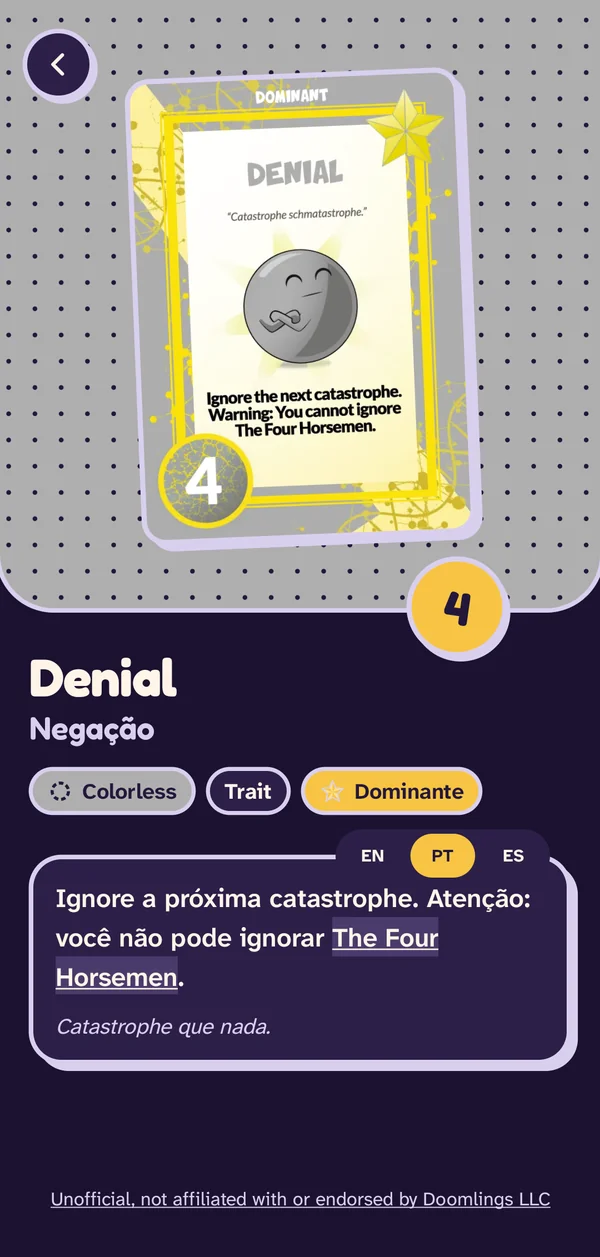
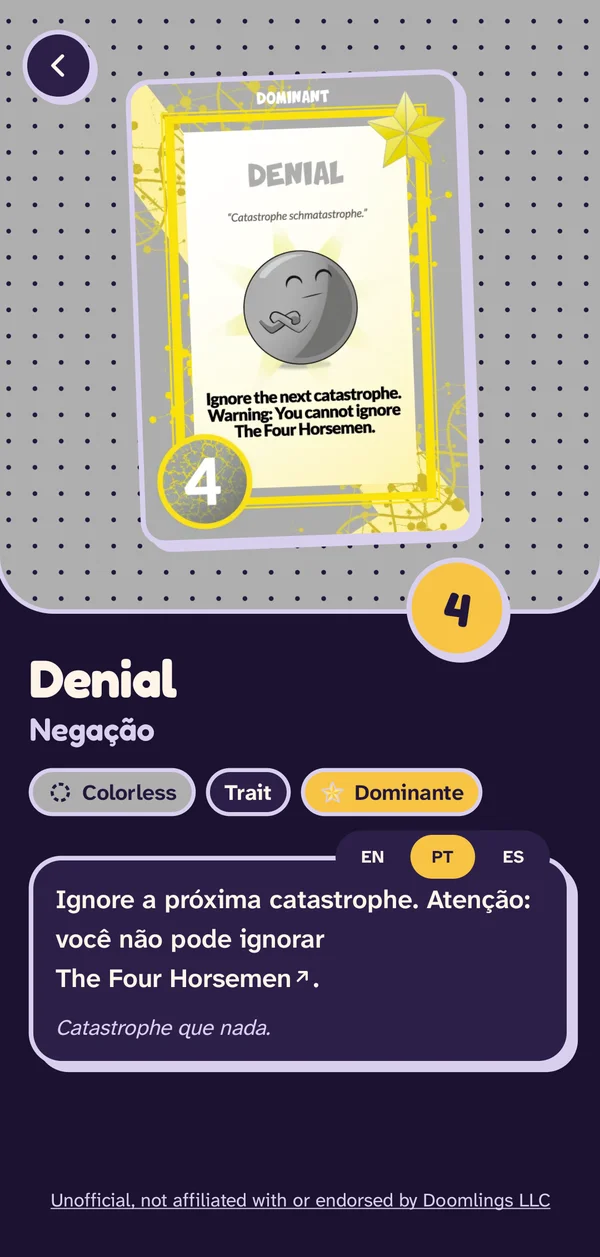
feat: cited card names in their ink with an arrow (#218)

diff --git a/app/src/main/java/dev/nycocado/atlas/carddetail/BlockBubble.kt b/app/src/main/java/dev/nycocado/atlas/carddetail/BlockBubble.kt
@@ -3,6 +3,7 @@ package dev.nycocado.atlas.carddetail
 import androidx.annotation.DrawableRes
 import androidx.annotation.StringRes
 import androidx.compose.animation.AnimatedContent
+import androidx.compose.foundation.Image
 import androidx.compose.foundation.background
 import androidx.compose.foundation.layout.Arrangement
 import androidx.compose.foundation.layout.Box
@@ -27,10 +28,12 @@ import androidx.compose.ui.geometry.Offset
 import androidx.compose.ui.geometry.Size
 import androidx.compose.ui.graphics.Brush
 import androidx.compose.ui.graphics.Color
+import androidx.compose.ui.graphics.ColorFilter
 import androidx.compose.ui.graphics.LinearGradientShader
 import androidx.compose.ui.graphics.Shader
 import androidx.compose.ui.graphics.ShaderBrush
 import androidx.compose.ui.graphics.SolidColor
+import androidx.compose.ui.res.painterResource
 import androidx.compose.ui.text.LinkAnnotation
 import androidx.compose.ui.text.Placeholder
 import androidx.compose.ui.text.PlaceholderVerticalAlign
@@ -39,7 +42,6 @@ import androidx.compose.ui.text.TextLinkStyles
 import androidx.compose.ui.text.buildAnnotatedString
 import androidx.compose.ui.text.font.FontStyle
 import androidx.compose.ui.text.intl.LocaleList
-import androidx.compose.ui.text.style.TextDecoration
 import androidx.compose.ui.text.withStyle
 import androidx.compose.ui.tooling.preview.PreviewLightDark
 import androidx.compose.ui.unit.dp
@@ -286,6 +288,7 @@ private fun EffectText(
     // Kept across recompositions, so an unchanged text stays equal and isn't laid out again.
     val brushes = remember(parts, theme) { parts.map { (it as? TextPart.Words)?.ink?.let(theme::brush) } }
     val gradients = mutableListOf<Pair<IntRange, GradientBrush>>()
+    val arrows = mutableMapOf<String, Color>()
     val text =
         buildAnnotatedString {
             withStyle(SpanStyle(localeList = LocaleList(language.code))) {
@@ -293,26 +296,39 @@ private fun EffectText(
                     when (part) {
                         is TextPart.Words -> {
                             val start = length
-                            append(part.text)
-                            val citations = library.citations(card, part.text)
+                            val cited = mutableListOf<IntRange>()
+                            var at = 0
+                            for ((range, citedCard) in library.citations(card, part.text)) {
+                                append(part.text.substring(at, range.first))
+                                val from = length
+                                // No-break spaces keep the name on one line, in the displayed text only.
+                                append(part.text.substring(range).replace(' ', '\u00A0'))
+                                // A word joiner keeps the arrow beside the name: an invisible format character, with
+                                // nothing for TalkBack to say. It must be text of its own, as a line can still break
+                                // before an inline content whose alternate text is the joiner.
+                                append('\u2060')
+                                appendInlineContent(ARROW + citedCard.id, "\u2060")
+                                val nameAndArrow = from until length
+                                cited += nameAndArrow
+                                val ink = citedInk(citedCard, theme)
+                                arrows[ARROW + citedCard.id] = ink
+                                addLink(
+                                    LinkAnnotation.Clickable(
+                                        citedCard.id,
+                                        TextLinkStyles(SpanStyle(color = ink)),
+                                    ) { onCardClick(citedCard.id) },
+                                    nameAndArrow.first,
+                                    nameAndArrow.last + 1,
+                                )
+                                at = range.last + 1
+                            }
+                            append(part.text.substring(at))
                             brushes[i]?.let { brush ->
                                 val span = start until length
                                 val style = SpanStyle(brush = brush)
                                 if (brush is GradientBrush) gradients += span to brush
                                 // A cited name keeps its citation style, which an ink drawn over it would hide.
-                                val cited = citations.map { (range, _) -> start + range.first..start + range.last }
                                 span.without(cited).forEach { addStyle(style, it.first, it.last + 1) }
-                            }
-                            for ((range, cited) in citations) {
-                                val link =
-                                    TextLinkStyles(
-                                        citedStyle(cited, theme).copy(textDecoration = TextDecoration.Underline),
-                                    )
-                                addLink(
-                                    LinkAnnotation.Clickable(cited.id, link) { onCardClick(cited.id) },
-                                    start + range.first,
-                                    start + range.last + 1,
-                                )
                             }
                         }
 
@@ -335,7 +351,17 @@ private fun EffectText(
                     token.code to
                         InlineTextContent(token.placeholder) { Symbol(symbol, Modifier.fillMaxSize(), actionColor) }
                 }
-            }.toMap()
+            }.toMap() +
+            arrows.mapValues { (_, color) ->
+                InlineTextContent(Placeholder(0.8.em, 0.8.em, PlaceholderVerticalAlign.Center)) {
+                    Image(
+                        painterResource(R.drawable.ic_arrow_outward),
+                        null,
+                        Modifier.fillMaxSize(),
+                        colorFilter = ColorFilter.tint(color),
+                    )
+                }
+            }
     BasicText(
         text,
         style = (if (note) AtlasTypography.bodyMd else AtlasTypography.bodyLg).copy(color = theme.onSurface),
@@ -348,6 +374,9 @@ private fun EffectText(
         inlineContent = inline,
     )
 }
+
+// Its own inline content ids, apart from the tokens' codes.
+private const val ARROW = "arrow:"
 
 // The colors an ink is drawn with, the rainbow's in the order of the card.
 internal fun AtlasColors.inkColors(ink: Ink): List<Color> =
@@ -391,16 +420,12 @@ private fun IntRange.without(holes: List<IntRange>): List<IntRange> =
         if (at <= last) add(at..last)
     }
 
-// A cited trait's name in its first color, like a highlighter. Trait colors only mean a card's color, so an age or a
-// catastrophe gets the dots of its own top panel instead.
-private fun citedStyle(
+// A cited trait's name in the ink of its first color. Trait colors only mean a card's color, so an age or a catastrophe
+// keeps the text's own color, and only its arrow says it opens a card.
+private fun citedInk(
     cited: NamedCard,
     theme: AtlasColors,
-): SpanStyle =
-    (cited as? Trait)
-        ?.let { theme.trait(it.colors.firstOrNull()) }
-        ?.let { SpanStyle(background = it.fill, color = it.onFill) }
-        ?: SpanStyle(background = theme.outlineSoft, color = theme.onSurface)
+): Color = (cited as? Trait)?.let { theme.trait(it.colors.firstOrNull()).ink } ?: theme.onSurface
 
 // Anxiety Elixir as in assets/doomlings/imaginary-ends/cards.json. The app doesn't show Trinkets yet, so its blocks are
 // the ones shared decides for it, written out.

diff --git a/app/src/test/java/dev/nycocado/atlas/CitedInkTest.kt b/app/src/test/java/dev/nycocado/atlas/CitedInkTest.kt
@@ -1,10 +1,20 @@
 package dev.nycocado.atlas
 
 import androidx.activity.compose.setContent
+import androidx.compose.foundation.layout.Box
+import androidx.compose.foundation.layout.width
+import androidx.compose.runtime.getValue
+import androidx.compose.runtime.mutableStateOf
+import androidx.compose.runtime.setValue
+import androidx.compose.ui.Modifier
+import androidx.compose.ui.graphics.Color
+import androidx.compose.ui.semantics.SemanticsActions
 import androidx.compose.ui.semantics.SemanticsProperties
 import androidx.compose.ui.semantics.getOrNull
 import androidx.compose.ui.test.hasText
 import androidx.compose.ui.text.AnnotatedString
+import androidx.compose.ui.text.TextLayoutResult
+import androidx.compose.ui.unit.dp
 import dagger.hilt.android.testing.HiltAndroidTest
 import dev.nycocado.atlas.card.CardColor
 import dev.nycocado.atlas.card.CardLanguage
@@ -16,12 +26,13 @@ import dev.nycocado.atlas.card.face
 import dev.nycocado.atlas.carddetail.BlockBubble
 import dev.nycocado.atlas.ui.theme.AtlasTheme
 import dev.nycocado.atlas.ui.theme.DayColors
+import org.junit.Assert.assertEquals
 import org.junit.Assert.assertFalse
 import org.junit.Assert.assertTrue
 import org.junit.Test
 
-// No card prints a cited name inside an inked span yet, so a made-up trait cites the real Heat Vision in one, drawn in
-// place of the app's screen, in the Day theme Robolectric starts in.
+// No card prints a cited name inside an inked span yet, so a made-up trait cites the real Heat Vision, a red trait, in a
+// blue one, drawn in place of the app's screen, in the Day theme Robolectric starts in.
 @HiltAndroidTest
 class CitedInkTest : AtlasBehaviorTest() {
     private val inkedCitation =
@@ -31,10 +42,10 @@ class CitedInkTest : AtlasBehaviorTest() {
             "",
             "Inked Citation",
             null,
-            listOf(Effect(text = "Discard [red]Heat Vision and every red trait[/red].")),
+            listOf(Effect(text = "Discard [blue]Heat Vision and every blue trait[/blue].")),
             null,
             0,
-            listOf(CardColor.Red),
+            listOf(CardColor.Blue),
             false,
             emptyList(),
             listOf(TraitIcon.DropOfLife),
@@ -49,13 +60,49 @@ class CitedInkTest : AtlasBehaviorTest() {
         )
 
     // A solid ink's brush becomes the span's color.
-    private fun AnnotatedString.redOver(words: String) =
-        text.indexOf(words).let { start ->
-            spanStyles.any {
-                it.start < start + words.length && it.end > start &&
-                    it.item.color == DayColors.traitRed.ink
+    private fun AnnotatedString.inkOver(
+        words: String,
+        ink: Color,
+    ) = text.indexOf(words).let { start ->
+        spanStyles.any { it.start < start + words.length && it.end > start && it.item.color == ink }
+    }
+
+    // Across every bubble width some line ends between Heat and Vision, or before the arrow, unless the name is kept whole.
+    // Below 150dp the name and its arrow don't fit on one line at all.
+    @Test
+    fun aCitedNameWithASpaceIsNeverSplitAcrossLines() {
+        var width by mutableStateOf(150.dp)
+        launchPastNotice().onActivity {
+            it.setContent {
+                AtlasTheme {
+                    Box(Modifier.width(width)) {
+                        BlockBubble(
+                            inkedCitation.face()!!.blocks.single(),
+                            CardLanguage.English,
+                            inkedCitation,
+                            null,
+                            library,
+                        )
+                    }
+                }
             }
         }
+        val effect = compose.onNode(hasText("and every blue trait", substring = true))
+
+        for (step in 0..40) {
+            width = (150 + step * 5).dp
+            compose.waitForIdle()
+            val layouts = mutableListOf<TextLayoutResult>()
+            effect.fetchSemanticsNode().config[SemanticsActions.GetTextLayoutResult].action!!(layouts)
+            val layout = layouts.single()
+            val heat = layout.layoutInput.text.indexOf("Heat")
+            val vision = layout.layoutInput.text.indexOf("Vision")
+            // After the word joiner.
+            val arrow = vision + "Vision".length + 1
+            assertEquals("at $width", layout.getLineForOffset(heat), layout.getLineForOffset(vision))
+            assertEquals("at $width", layout.getLineForOffset(heat), layout.getLineForOffset(arrow))
+        }
+    }
 
     @Test
     fun aCitedNameInsideAnInkKeepsItsCitationStyle() {
@@ -75,15 +122,19 @@ class CitedInkTest : AtlasBehaviorTest() {
 
         val text =
             compose
-                .onNode(hasText("Heat Vision and every red trait", substring = true))
+                .onNode(hasText("and every blue trait", substring = true))
                 .fetchSemanticsNode()
                 .config
                 .getOrNull(SemanticsProperties.Text)!!
                 .single()
-        val cited = text.text.indexOf("Heat Vision")
+        val cited = text.text.indexOf(HEAT_VISION)
 
-        assertTrue(text.getLinkAnnotations(cited, cited + "Heat Vision".length).isNotEmpty())
-        assertFalse(text.redOver("Heat Vision"))
-        assertTrue(text.redOver("and every red trait"))
+        assertTrue(text.getLinkAnnotations(cited, cited + HEAT_VISION.length).isNotEmpty())
+        assertTrue(text.inkOver(HEAT_VISION, DayColors.traitRed.ink))
+        assertFalse(text.inkOver(HEAT_VISION, DayColors.traitBlue.ink))
+        assertTrue(text.inkOver("and every blue trait", DayColors.traitBlue.ink))
     }
 }
+
+// A cited name is displayed with a no-break space, so the name stays on one line.
+private const val HEAT_VISION = "Heat\u00A0Vision"

diff --git a/app/src/test/java/dev/nycocado/atlas/CitedCardTest.kt b/app/src/test/java/dev/nycocado/atlas/CitedCardTest.kt
@@ -45,12 +45,14 @@ class CitedCardTest : AtlasBehaviorTest() {
                     SemanticsMatcher.keyIsDefined(SemanticsProperties.LinkTestMarker),
                 ).fetchSemanticsNode()
 
-        // TalkBack reads the effect around the link, and announces the name in it as a link.
+        // TalkBack reads the effect around the link, and announces the name in it as a link. It doesn't read the word
+        // joiner that keeps the arrow beside the name.
         val effect =
             link.parent!!
                 .config[SemanticsProperties.Text]
                 .single()
                 .text
+                .replace("\u2060", "")
         assertTrue("If Vampirism is in your trait pile" in effect)
         assertTrue(SemanticsActions.OnClick in link.config)
     }

diff --git a/app/src/screenshotTest/kotlin/dev/nycocado/atlas/ui/theme/ThemeScreenshots.kt b/app/src/screenshotTest/kotlin/dev/nycocado/atlas/ui/theme/ThemeScreenshots.kt
@@ -386,6 +386,11 @@ fun TranslatedTraitDetailFontScale200SpanishScreenshot() = AtlasTheme { Translat
 fun CitedCardDetailScreenshot() = CitedCardDetailPreview()
 
 @PreviewTest
+@Preview(fontScale = 2f)
+@Composable
+fun CitedCardDetailFontScale200Screenshot() = CitedCardDetailPreview()
+
+@PreviewTest
 @PreviewLightDark
 @Composable
 fun PillsScreenshot() = PillsPreview()

diff --git a/docs/design.md b/docs/design.md
@@ -75,7 +75,7 @@ Visual specs only; content and behavior are defined with each screen.
 - **Card thumbnail:** card image with `outline` border at `stroke-sticker`, `radius-card-sm`, `shadow-sticker-lg` and a tilt between −2.5° and +2.5°. Name below in `title-md` with the trait glyph. No badges over the art.
 - **Card stack:** a card group, drawn as a card thumbnail of the first variant with two `surface-sticker` silhouettes behind it (same outline and shadow, offset 3dp and tilted 2.5° either way). The name line carries the count ("Kidney ×6"). Still nothing over the art. Tapping it opens the group.
 - **Open card group:** the stack's cell is replaced in place by a collapse cell and then the variants, all ordinary cells of the grid that wrap from row to row, with the next cards right after the last variant. The collapse cell is as wide as a card but holds only a 48dp round `surface-sticker` button (`outline` border, `shadow-sticker`, chevron up) with the group's name and count under it ("Kidney ×6", `title-md`), both centered in a cell the size of a card's art; it never covers a card. Nothing is drawn behind the cells.
-- **Card detail:** top panel in `trait-<color>` with a dot pattern in `on-trait-<color>` (ages and catastrophes in `surface-sunk` with dots in `outline-soft`), base radius 40dp, large card tilted at a random angle between −3° and −1.5° or +1.5° and +2.5° (never near straight), picked when it opens and kept while it stays open, with `stroke-strong` and `shadow-sticker-lg`, large points badge stuck on the panel edge. Name in `display`; pills for color (glyph + name), type and keywords. Effect text in a `surface-sticker` bubble (`radius-md`, `shadow-sticker-lg`) in `body-lg`. An inked span of the text is in its color's `trait-<color>-ink` (`trait-colorless-ink` for colorless), in both themes; a rainbow span is a horizontal gradient of the four trait inks, red, green, blue, purple, across the span, and a wonder span (Age of Wonder's text) one of `wonder-ink-orange`, `wonder-ink-teal` and `wonder-ink-blue`: the only gradients of the design, as the cards print them. A card's name keeps `display` even where the card prints it in color. A cited name inside an inked span keeps its citation style, and TalkBack reads the words only. A card name cited in the effect or World's End is underlined and highlighted like a marker in the cited card's `trait-<color>` with its `on-trait-<color>` text (`trait-colorless` for a colorless trait, `outline-soft` with `on-surface` text for an age or a catastrophe) and opens that card, and back returns to the card that cited it. Round 48dp back button with `shadow-sticker`.
+- **Card detail:** top panel in `trait-<color>` with a dot pattern in `on-trait-<color>` (ages and catastrophes in `surface-sunk` with dots in `outline-soft`), base radius 40dp, large card tilted at a random angle between −3° and −1.5° or +1.5° and +2.5° (never near straight), picked when it opens and kept while it stays open, with `stroke-strong` and `shadow-sticker-lg`, large points badge stuck on the panel edge. Name in `display`; pills for color (glyph + name), type and keywords. Effect text in a `surface-sticker` bubble (`radius-md`, `shadow-sticker-lg`) in `body-lg`. An inked span of the text is in its color's `trait-<color>-ink` (`trait-colorless-ink` for colorless), in both themes; a rainbow span is a horizontal gradient of the four trait inks, red, green, blue, purple, across the span, and a wonder span (Age of Wonder's text) one of `wonder-ink-orange`, `wonder-ink-teal` and `wonder-ink-blue`: the only gradients of the design, as the cards print them. A card's name keeps `display` even where the card prints it in color. A cited name inside an inked span keeps its citation style, and TalkBack reads the words only. A card name cited in the effect or World's End is in the cited trait's `trait-<color>-ink` (`trait-colorless-ink` for a colorless trait, `on-surface` for an age or a catastrophe), with no underline, followed by a diagonal arrow 0.8em high in the same color, drawn like Material Symbols Rounded `arrow_outward` at the weight of the other generic icons (not `open_in_new`, which means leaving the app); the name and its arrow never break across lines. It opens that card, and back returns to the card that cited it; TalkBack reads the name only, as a link. Round 48dp back button with `shadow-sticker`.
 - **Color disc filter:** 48dp disc filled with `trait-<color>`, glyph in `on-trait-<color>`, label below. Selected: double ring (`surface` + `outline`, 3 each); glyph and label stay.
 - **Segmented selector:** `surface-sticker` track with outline; active segment in `primary` / `on-primary`.
 - **Language selector:** `inverse-surface` track, fully rounded, 3dp padding and 4dp gap, hanging on the top-right edge of the first text bubble (18dp above it, 14dp in); on a card without a text bubble, on its own row aligned right. Options 30dp tall, at least 44dp wide, with the language code (EN, PT, ES) in `label-sm`: the `highlight` slides to the tapped option and its code is `on-highlight`, inactive codes are `on-inverse-surface`. A first text bubble the selector hangs on has `Space.s2` more space above it, so the selector clears the pills. Touch target 48dp. Accessibility names are the languages in themselves (English, Português, Español).
